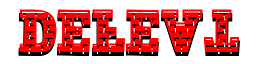
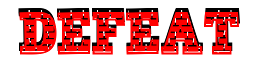
Victory, Defeat Images update v1

diff --git a/tower-defense/tower-defense/src/com/git/tdgame/screen/GameScreen.java b/tower-defense/tower-defense/src/com/git/tdgame/screen/GameScreen.java
@@ -21,6 +21,7 @@ import com.git.tdgame.TDGame;
 import com.git.tdgame.data.DataProvider;
 import com.git.tdgame.gameActor.Enemy;
 import com.git.tdgame.gameActor.Gold;
+import com.git.tdgame.gameActor.TRImage;
 import com.git.tdgame.gameActor.level.LevelModel;
 import com.git.tdgame.gameActor.level.Wave;
 import com.git.tdgame.gameActor.projectile.AbstractProjectile;
@@ -48,7 +49,7 @@ public class GameScreen implements Screen, InputProcessor{
 
 	// Stage
 	private Stage stage;
-	private Image splashImage;
+	private TRImage splashImage;
 	private Image mapImage;
 	private boolean defeat = false;
 	private boolean victory = false;
@@ -328,8 +329,8 @@ public class GameScreen implements Screen, InputProcessor{
 
 	private void victory()
 	{
-		splashImage = new Image(new Texture(Gdx.files.internal("data/game/gui/victory.png")));
-		splashImage.setPosition(tdGameMapHelper.getWidth()*0.30f, tdGameMapHelper.getHeight()*0.25f);
+		Vector2 pos = new Vector2(tdGameMapHelper.getWidth()*0.30f, tdGameMapHelper.getHeight()*0.25f);
+		splashImage = new TRImage(pos, new Texture(Gdx.files.internal("data/game/gui/victory.png")));
 
 		stage.addActor(splashImage);
 		if(!victory && game.getUnlockedLevels() <= this.levelIndex)
@@ -435,8 +436,8 @@ public class GameScreen implements Screen, InputProcessor{
 	
 	public void defeat()
 	{
-		splashImage = new Image(new Texture(Gdx.files.internal("data/game/gui/defeat.png")));
-		splashImage.setPosition(tdGameMapHelper.getWidth()*0.30f, tdGameMapHelper.getHeight()*0.25f);
+		Vector2 pos = new Vector2(tdGameMapHelper.getWidth()*0.30f, tdGameMapHelper.getHeight()*0.25f);
+		splashImage = new TRImage(pos, new Texture(Gdx.files.internal("data/game/gui/defeat.png")));
 
 		stage.addActor(splashImage);
 		defeat = true;

diff --git a/tower-defense/tower-defense/src/com/git/tdgame/gameActor/Gold.java b/tower-defense/tower-defense/src/com/git/tdgame/gameActor/Gold.java
@@ -14,7 +14,7 @@ public class Gold extends Actor
     private final int WIDTH 	= 32;
     private final int HEIGHT 	= 32;
     private int cash = 0;
-    private float incomeTimer = 0; // Add 5 gold each second
+    private float incomeTimer = 0; // Add 1 gold each second
     
     // Sprite variables
     private Texture texture;
@@ -37,6 +37,7 @@ public class Gold extends Actor
         sprite = new com.badlogic.gdx.graphics.g2d.Sprite(texture,WIDTH,HEIGHT);
         font = new BitmapFont(true);
         font.setColor(0.9f, 0.9f, 0, 1);
+    	font.setScale(1.5f, 1.5f);
     }
 
     public void draw (SpriteBatch batch, float parentAlpha)
@@ -47,14 +48,14 @@ public class Gold extends Actor
     	
     	batch.draw(sprite,getX(),getY()+HEIGHT,getOriginX(),getOriginY(),WIDTH,HEIGHT,1,-1,0);
     	
-    	font.draw(batch, new String(cash + " g"), WIDTH, getY()+HEIGHT/2);
+    	font.draw(batch, new String(cash + " g"), WIDTH, getY()+HEIGHT/4);
     }
 
     public void act (float delta)
     {
     	incomeTimer += delta*1000;
     	
-    	if(incomeTimer > 500)
+    	if(incomeTimer > 1000)
     	{
     		this.cash += 1;
     		incomeTimer -= 1000;

diff --git a/tower-defense/tower-defense/src/com/git/tdgame/gameActor/TRImage.java b/tower-defense/tower-defense/src/com/git/tdgame/gameActor/TRImage.java
@@ -1,0 +1,31 @@
+package com.git.tdgame.gameActor;
+
+import com.badlogic.gdx.Gdx;
+import com.badlogic.gdx.graphics.Texture;
+import com.badlogic.gdx.graphics.g2d.Sprite;
+import com.badlogic.gdx.graphics.g2d.SpriteBatch;
+import com.badlogic.gdx.math.Vector2;
+import com.badlogic.gdx.scenes.scene2d.Actor;
+
+public class TRImage extends Actor {
+	
+    // Sprite variables
+    private Sprite sprite;
+    
+    public TRImage (Vector2 position, Texture texture)
+    {
+    	setPosition(position.x,position.y);
+    	
+    	this.setWidth(texture.getWidth());
+    	this.setHeight(texture.getHeight());
+    	
+        sprite = new com.badlogic.gdx.graphics.g2d.Sprite(texture, (int)getWidth(), (int)getHeight());
+    }
+    
+    public void draw (SpriteBatch batch, float parentAlpha)
+    {
+    	batch.draw(sprite,getX(),getY()+getHeight(),getOriginX(),getOriginY(),getWidth(),getHeight(),1,-1,0);
+    }
+
+
+}
